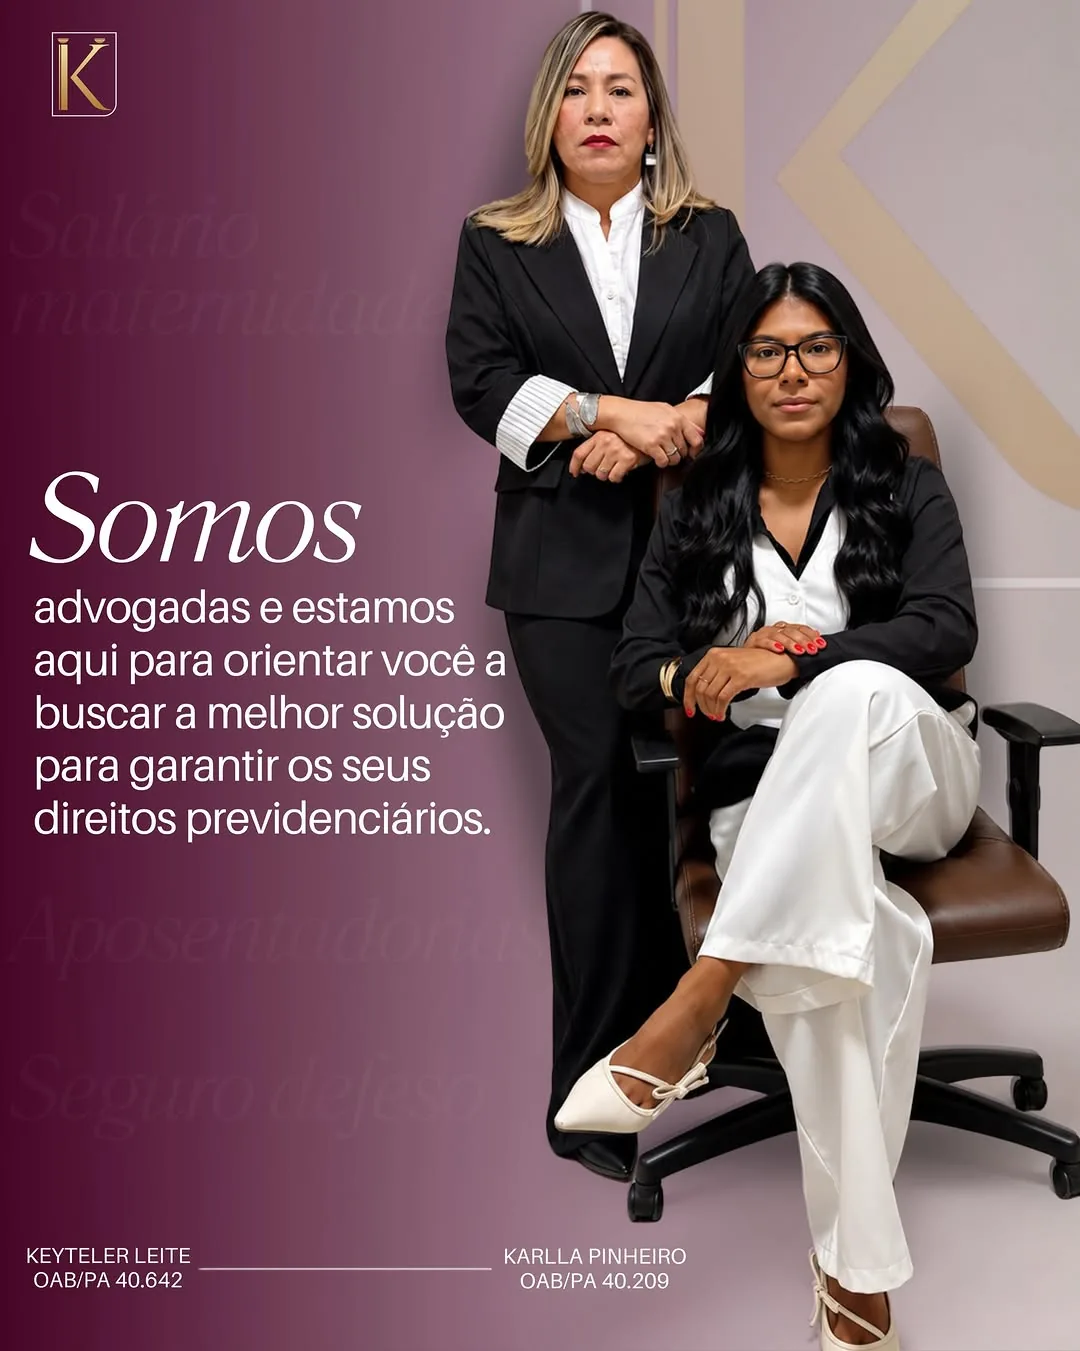
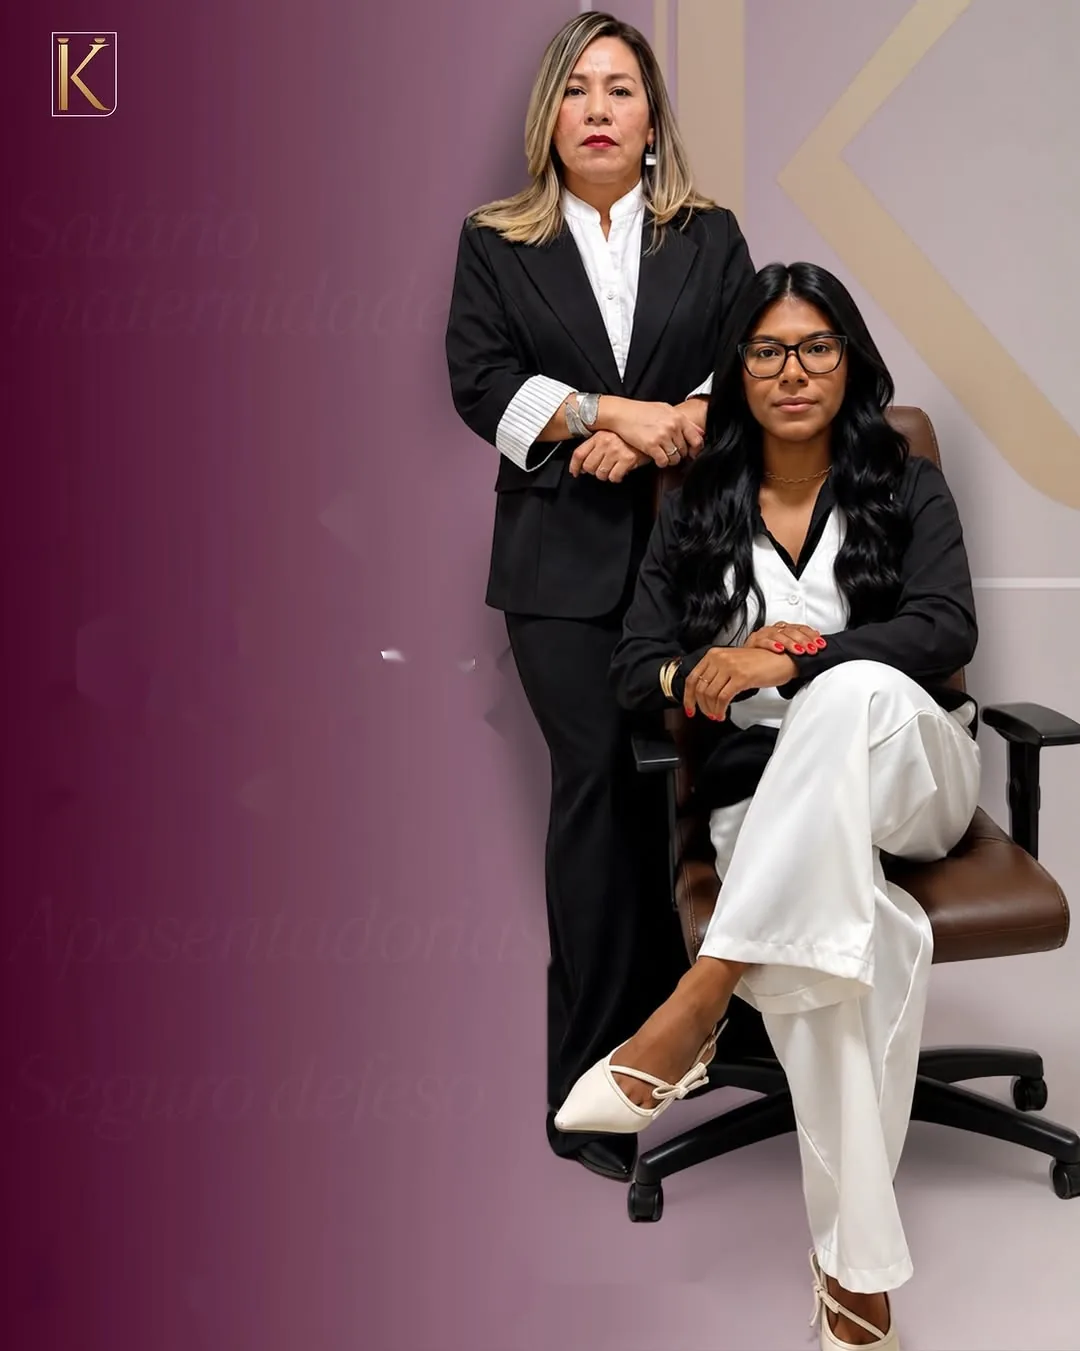
Regenerate WebP assets from restored photos

diff --git a/scripts/prepare-assets.py b/scripts/prepare-assets.py
@@ -1,22 +1,24 @@
 from __future__ import annotations
 
 from pathlib import Path
+
 from PIL import Image
 
-ASSETS = Path('public/assets')
+ASSETS = Path(__file__).resolve().parents[1] / "public" / "assets"
 
 
-def convert(source: str, webp: str, jpg: str | None = None, quality: int = 82) -> None:
-    image = Image.open(ASSETS / source)
-    if image.mode not in ('RGB', 'RGBA'):
-        image = image.convert('RGBA')
-    image.save(ASSETS / webp, 'WEBP', quality=quality, method=6)
-    if jpg:
-        rgb = image.convert('RGB')
-        rgb.save(ASSETS / jpg, 'JPEG', quality=88, optimize=True, progressive=True)
+def convert_to_webp(source: str, destination: str, quality: int = 82) -> None:
+    source_path = ASSETS / source
+    destination_path = ASSETS / destination
+    with Image.open(source_path) as image:
+        if image.mode not in ("RGB", "RGBA"):
+            image = image.convert("RGBA")
+        image.save(destination_path, "WEBP", quality=quality, method=6)
+        print(f"{source} -> {destination}")
 
 
-convert('karlla-pinheiro-hero.png', 'karlla-pinheiro-hero.webp', 'karlla-pinheiro-hero.jpg', 82)
-convert('keyteler-leite-hero.png', 'keyteler-leite-hero.webp', 'keyteler-leite-hero.jpg', 82)
-convert('foto-oficial-advogadas.jpg', 'foto-oficial-advogadas.webp', None, 82)
-convert('abstract-archival-texture.png', 'abstract-archival-texture.webp', None, 76)
+# The JPGs are the canonical restored sources. Regenerating WebP from them
+# prevents stale pre-restoration WebP files from being published by <picture>.
+convert_to_webp("karlla-pinheiro-hero.jpg", "karlla-pinheiro-hero.webp")
+convert_to_webp("keyteler-leite-hero.jpg", "keyteler-leite-hero.webp")
+convert_to_webp("foto-oficial-advogadas.jpg", "foto-oficial-advogadas.webp")

diff --git a/inspection-notes.md b/inspection-notes.md
@@ -60,4 +60,4 @@ Os indicadores `Atendimento próximo`, `Salinópolis / PA` e `Atuação nacional
 
 ## Restauração das fotos institucionais — candidatos finais
 
-A candidata `foto-oficial-advogadas.cleaned.jpg` foi revisada após várias iterações do script `scripts/clean_embedded_text.py`. A máscara final usa apenas caixas OCR no painel textual esquerdo, máscaras locais para vestígios de baixo contraste e faixas estreitas para a legenda inferior; não há máscara ampla sobre rostos ou corpos. A inspeção visual confirmou a preservação do monograma K, do enquadramento e da identidade, pose e expressão das duas advogadas. O título, parágrafo, nomes, OABs e separador embutidos não aparecem mais na candidata. OCR independente detectou somente artefatos não linguísticos (`IK`, `~`, `a`, `ae`, `/)`), sem palavras institucionais legíveis. Os candidatos dos dois retratos também foram regenerados nas proporções originais (1122×1402); a equipe permanece em 1080×1351. A inspeção visual dos retratos confirmou que o monograma K dourado foi preservado, que as legendas embutidas foram removidas e que não há alteração perceptível de identidade, pose ou expressão. Ainda não substituí os JPG oficiais nem publiquei esta alteração.
+A candidata `foto-oficial-advogadas.cleaned.jpg` foi revisada após várias iterações do script `scripts/clean_embedded_text.py`. A máscara final usa apenas caixas OCR no painel textual esquerdo, máscaras locais para vestígios de baixo contraste e faixas estreitas para a legenda inferior; não há máscara ampla sobre rostos ou corpos. A inspeção visual confirmou a preservação do monograma K, do enquadramento e da identidade, pose e expressão das duas advogadas. O título, parágrafo, nomes, OABs e separador embutidos não aparecem mais na candidata. OCR independente detectou somente artefatos não linguísticos (`IK`, `~`, `a`, `ae`, `/)`), sem palavras institucionais legíveis. Os candidatos dos dois retratos também foram regenerados nas proporções originais (1122×1402); a equipe permanece em 1080×1351. A inspeção visual dos retratos confirmou que o monograma K dourado foi preservado, que as legendas embutidas foram removidas e que não há alteração perceptível de identidade, pose ou expressão. Os JPG oficiais foram substituídos e os WebP foram regenerados a partir deles pelo pipeline corrigido.

diff --git a/asset-audit-notes.md b/asset-audit-notes.md
@@ -20,4 +20,8 @@ A primeira restauração determinística preservou os sujeitos, mas a inspeção
 
 ## Candidatos restaurados
 
-Os retratos individuais de Karlla e Keyteler agora estão limpos, sem nome ou sublinhado, com o monograma K preservado e o gradiente inferior contínuo. A foto de equipe preserva as pessoas e remove o texto principal, mas ainda requer refinamento local no fundo esquerdo para eliminar totalmente vestígios e suavizar a transição; ela não será publicada até essa última correção.
+Os retratos individuais de Karlla e Keyteler estão limpos, sem nome ou sublinhado, com o monograma K preservado e o gradiente inferior contínuo. A foto de equipe foi refinada com máscaras OCR/localizadas, preservando integralmente as pessoas e o monograma; a inspeção final não encontrou palavras institucionais legíveis.
+
+## Correção do pipeline WebP
+
+Após o primeiro deploy da restauração, a inspeção pública mostrou que o elemento `picture` ainda carregava os WebP antigos. A causa foi a existência de WebP pré-restauração versionados em `public/assets`, que o build copiava sem recriá-los a partir dos JPG atualizados. O script `scripts/prepare-assets.py` agora gera os três WebP diretamente dos JPG canônicos, e o script `pages:build` executa essa etapa antes do Vite. O cache de otimização foi removido durante a validação do build final.
